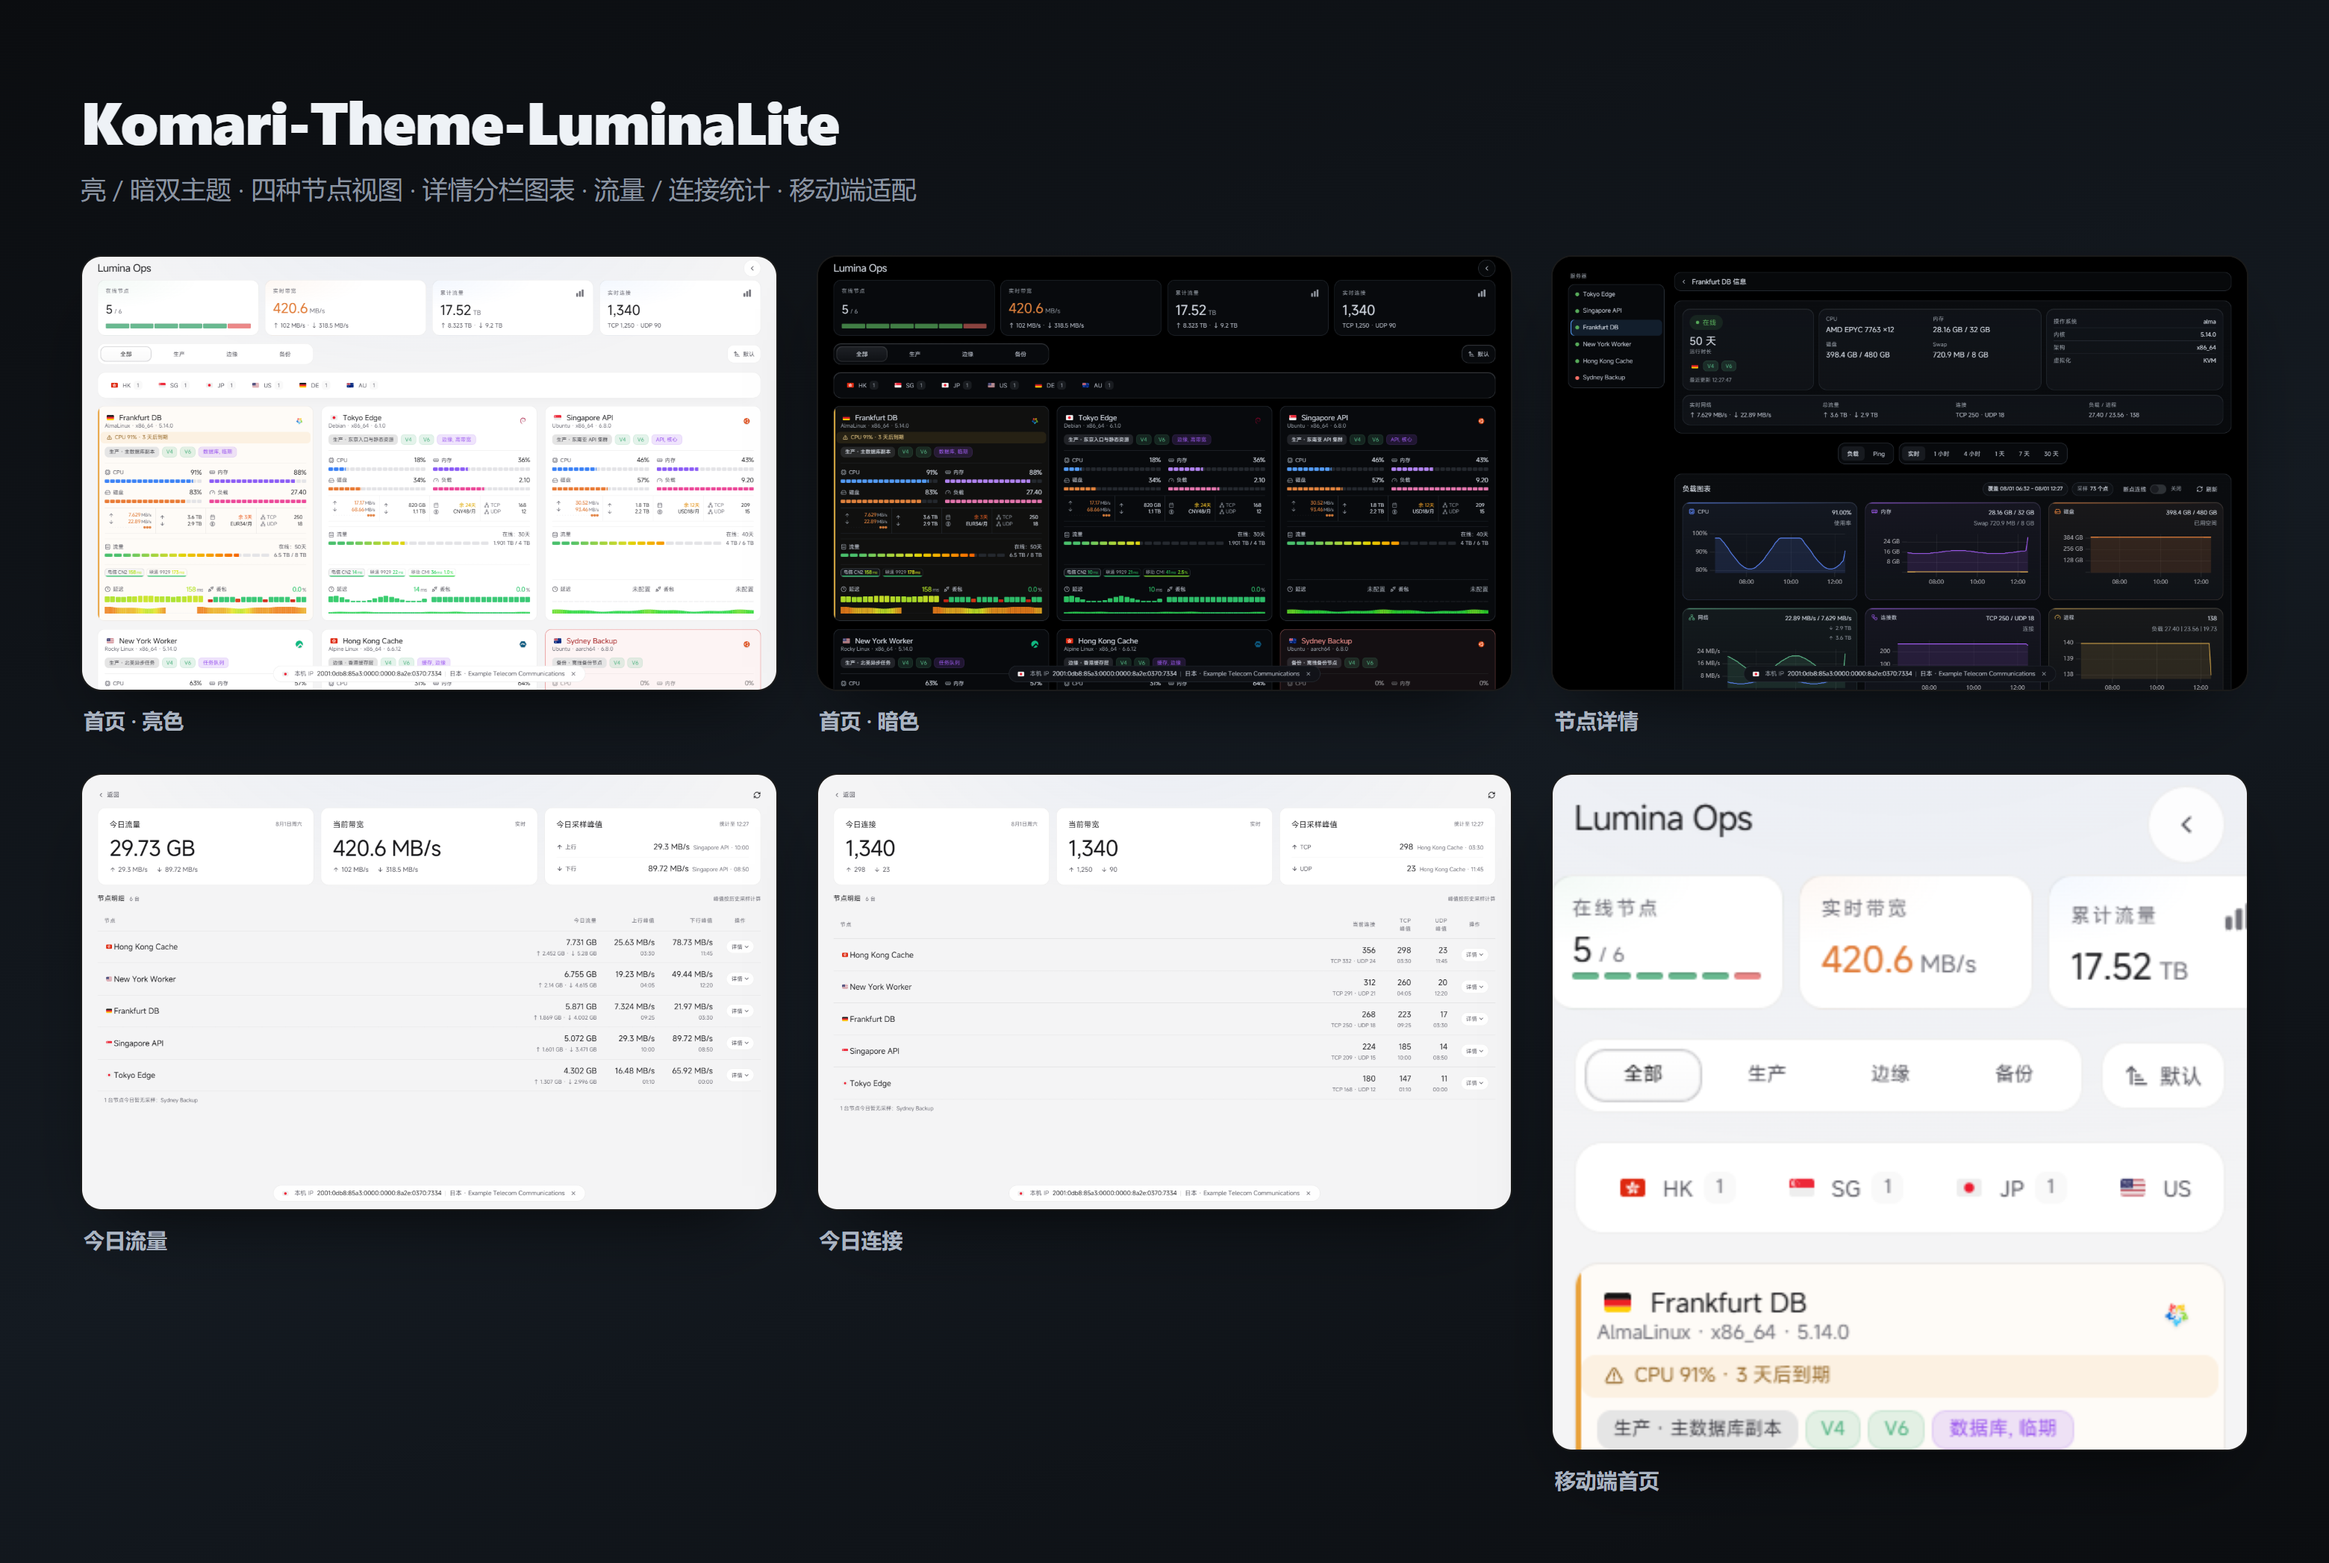
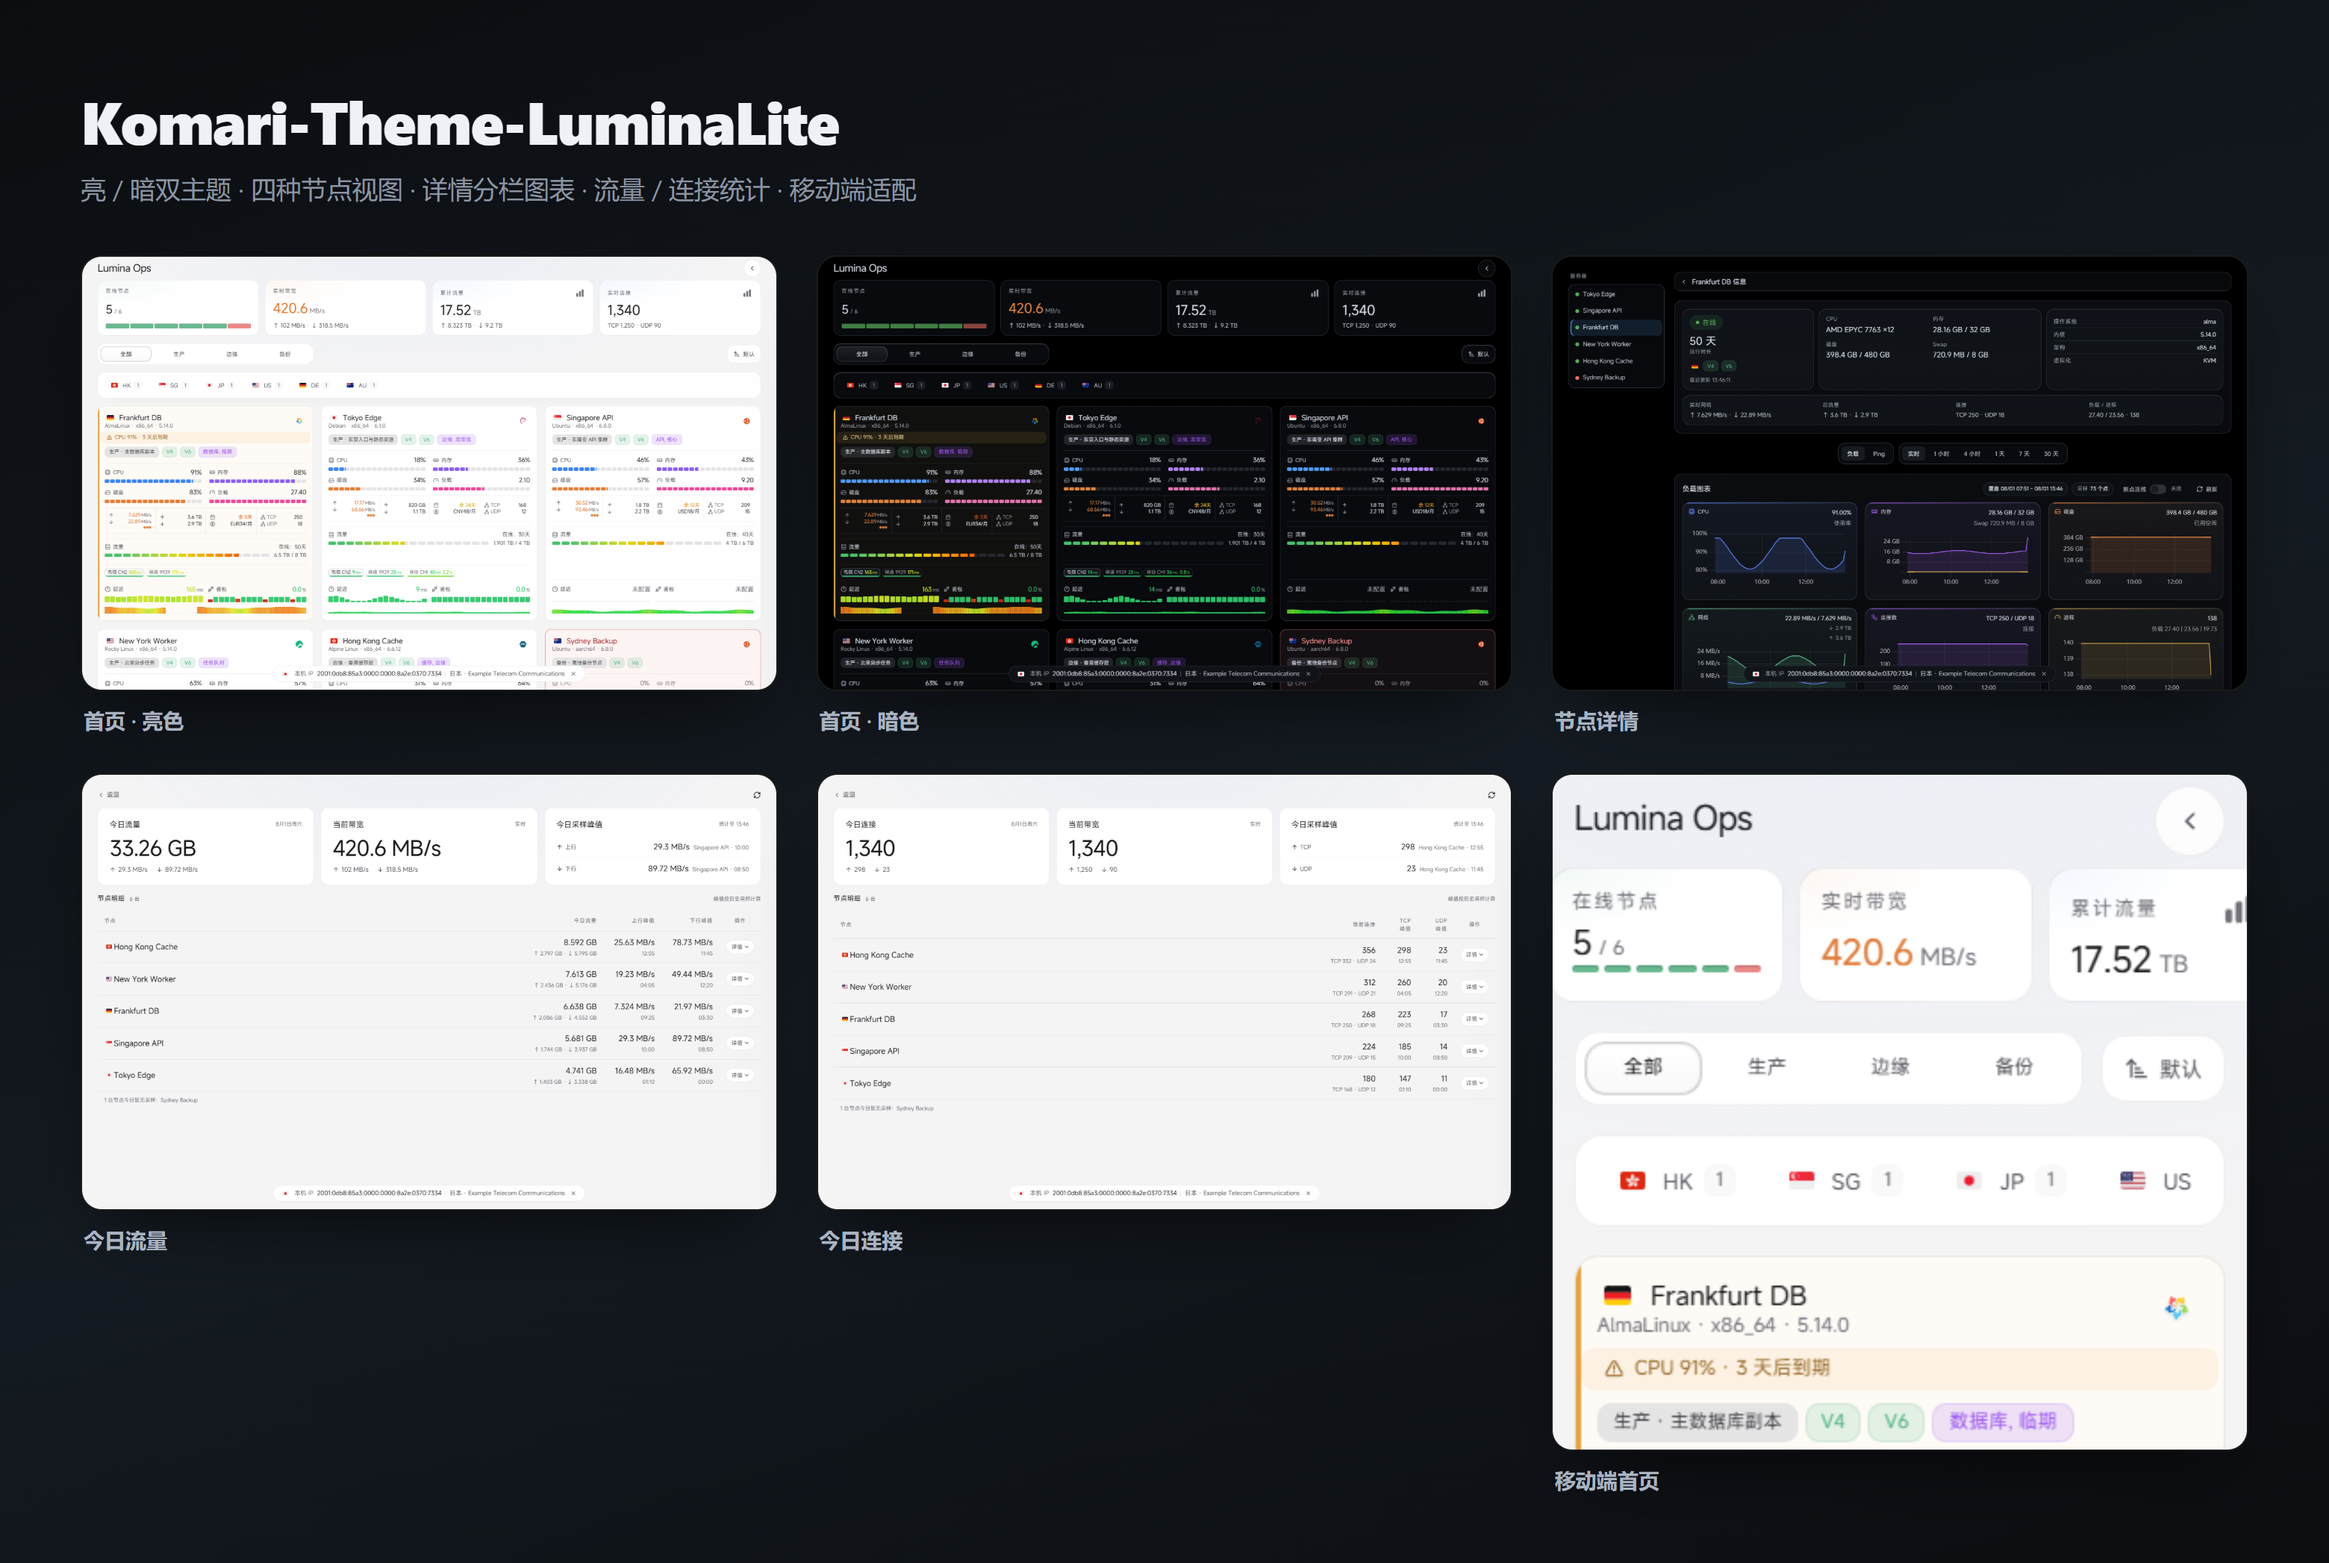
fix(mobile): shrink oversized floating controls on touch viewports
The floating-controls touch target (appearance / view-mode / admin buttons
and the collapse trigger) jumped from 36px on desktop to 44px on
(pointer: coarse) / (max-width: 768px), which made the top-right controls
look disproportionately large on phones and threw off the layout ratio.

Reduce the mobile target to 40px -- still above the WCAG AA 24px minimum
and a comfortable touch target, but closer to the 36px desktop size so the
proportions read correctly. Re-tighten the home-dashboard top padding to
match (narrow 32px, touch-wide 28px) so the 6px gap to the overview KPI
cards is preserved without the previous 44px-sized band-aid.

Update the a11y contract test from 44px to 40px and refresh the v2.3.4
release notes. Rebuilt dist, regenerated preview.png and repackaged the
v2.3.4 zip.

diff --git a/src/styles/home.css b/src/styles/home.css
@@ -1090,7 +1090,7 @@
 }
 
 /* 首页顶部为快捷设置按钮保留控制区：36px 按钮留 28px（上下各约 6px）。
-   iOS 的状态栏安全区由 app-main 统一叠加。触屏/窄屏的 44px 按钮留白见下方覆盖规则。 */
+   iOS 的状态栏安全区由 app-main 统一叠加。触屏/窄屏的 40px 按钮留白见下方覆盖规则。 */
 .home-dashboard {
   padding-top: 28px;
 }
@@ -1203,21 +1203,21 @@
   }
 }
 
-/* 触屏 / 窄屏把快捷按钮放大到 44px 触控目标（见 surface.css 的同条 media），
-   按钮底部 top(-14)+44=+30 会探进概览卡 2px。同步抬高顶部留白到 36px，
+/* 触屏 / 窄屏把快捷按钮放大到 40px 触控目标（见 surface.css 的同条 media），
+   按钮底部 top(-14)+40=+26 会探进概览卡 2px。同步抬高顶部留白到 32px，
    让按钮与概览卡之间保持 6px 间距，与桌面 36px 按钮的留白一致。
    必须写在 1024px 规则之后，以覆盖那里的 24px。 */
 @media (pointer: coarse), (max-width: 768px) {
   .home-dashboard {
-    padding-top: 36px;
+    padding-top: 32px;
   }
 }
 
-/* 触屏宽屏沿用桌面 top:-18，按钮底部 -18+44=+26，留白补到 32 保持 6px 间距。
-   写在最末以同时覆盖 1024px 的 24px 与上一条的 36px。 */
+/* 触屏宽屏沿用桌面 top:-18，按钮底部 -18+40=+22，留白补到 28 保持 6px 间距。
+   写在最末以同时覆盖 1024px 的 24px 与上一条的 32px。 */
 @media (min-width: 1024px) and (pointer: coarse) {
   .home-dashboard {
-    padding-top: 32px;
+    padding-top: 28px;
   }
 }
 

diff --git a/src/components/node/__tests__/a11yExperience.test.ts b/src/components/node/__tests__/a11yExperience.test.ts
@@ -33,12 +33,12 @@ describe("a11y and mobile experience contracts", () => {
     expect(compactCss).toContain(".compact-node-health-bar:focus-visible");
   });
 
-  it("FloatingControls enforces at least 44px touch target on mobile viewports", () => {
+  it("FloatingControls uses a proportionate 40px touch target on mobile viewports", () => {
     expect(surfaceCss).toMatch(/@media \(pointer: coarse\), \(max-width: 768px\)/);
-    expect(surfaceCss).toContain("width: 44px;");
-    expect(surfaceCss).toContain("height: 44px;");
-    expect(surfaceCss).toContain("min-width: 44px;");
-    expect(surfaceCss).toContain("flex-basis: 44px;");
+    expect(surfaceCss).toContain("width: 40px;");
+    expect(surfaceCss).toContain("height: 40px;");
+    expect(surfaceCss).toContain("min-width: 40px;");
+    expect(surfaceCss).toContain("flex-basis: 40px;");
     expect(surfaceCss).not.toContain(".floating-controls-actions .control-button::before");
   });
 

diff --git a/src/styles/surface.css b/src/styles/surface.css
@@ -224,10 +224,10 @@ body::after {
 @media (pointer: coarse), (max-width: 768px) {
   .floating-controls-actions .control-button,
   .floating-controls-trigger {
-    width: 44px;
-    min-width: 44px;
-    height: 44px;
-    flex-basis: 44px;
+    width: 40px;
+    min-width: 40px;
+    height: 40px;
+    flex-basis: 40px;
     touch-action: manipulation;
   }
 }

diff --git a/.github/release-notes/v2.3.4.md b/.github/release-notes/v2.3.4.md
@@ -2,7 +2,7 @@
 
 ## 移动端体验
 
-- **修复顶部控件与概览卡重叠**：触屏 / 窄屏下悬浮快捷按钮放大到 44px 触控目标后，按钮底部会探进下方概览卡约 2px，压住卡片顶边。现按 44px 按钮同步抬高首页顶部留白，使按钮与概览卡之间保持 6px 间距，与桌面 36px 按钮一致；触屏宽屏同样补齐。
+- **缩小移动端顶部控件并修正比例**：触屏 / 窄屏下悬浮快捷按钮原本放大到 44px，相对 36px 的桌面按钮显得过大、比例失调。现下调为 40px 触控目标——仍优于 WCAG AA 最小触控尺寸，但与桌面按钮更协调；同步收紧首页顶部留白（窄屏 32px、触屏宽屏 28px），按钮与概览卡之间保持 6px 间距，不再压住卡片顶边。
 - **访客信息条不再遮挡节点卡**：底部常驻的本机 IP 信息条在移动端 / 触屏下，用户开始滚动浏览时即收起，避免压盖节点卡底部的延迟、丢包与 IP 协议栈徽标。原有的 8 秒自动收起保留，桌面端行为不变。
 
 ## 工程质量
